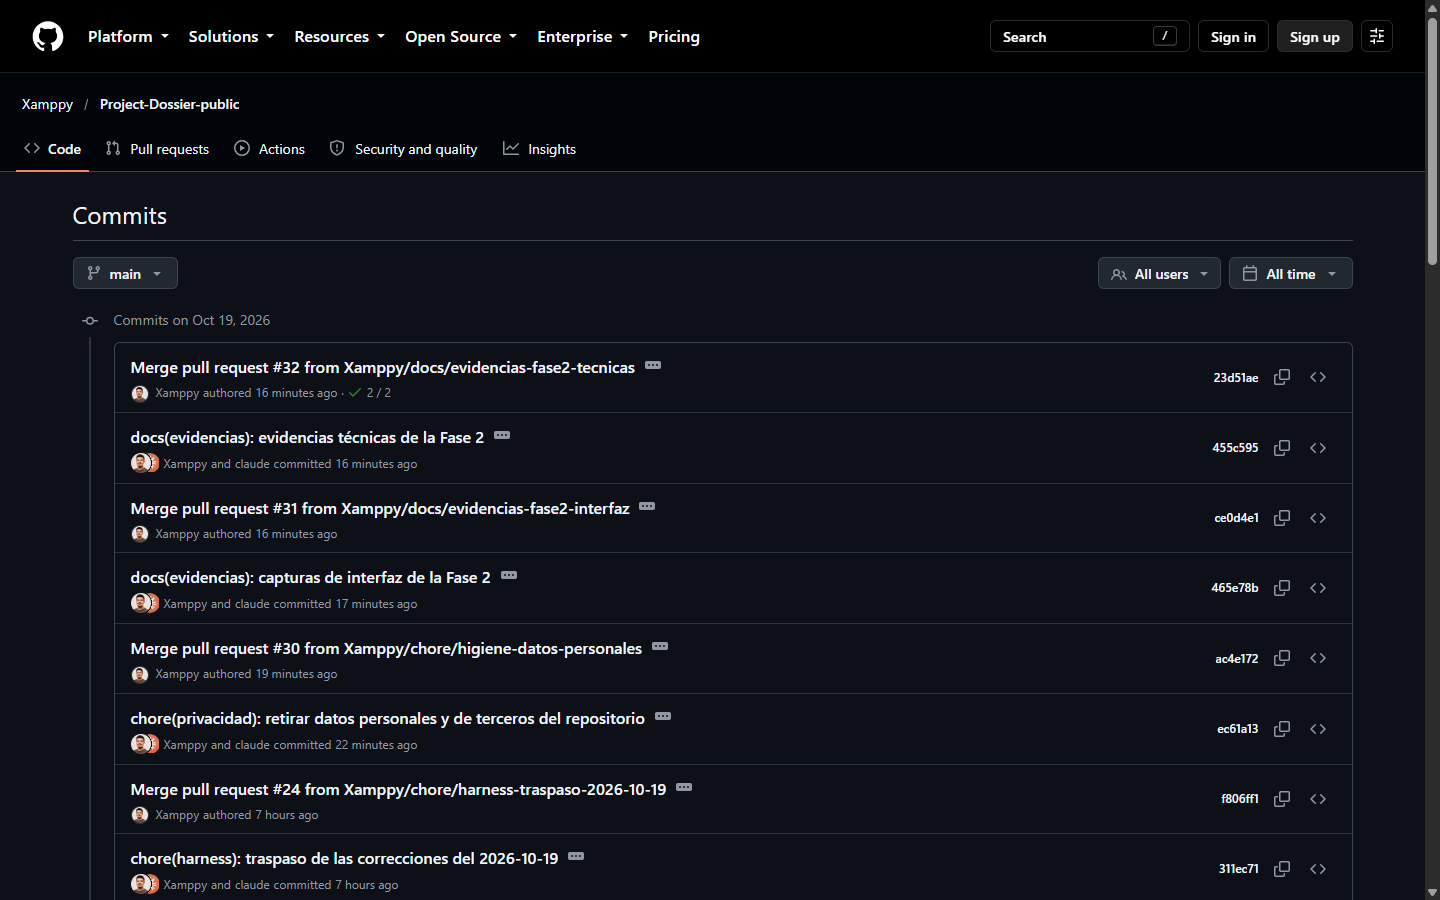
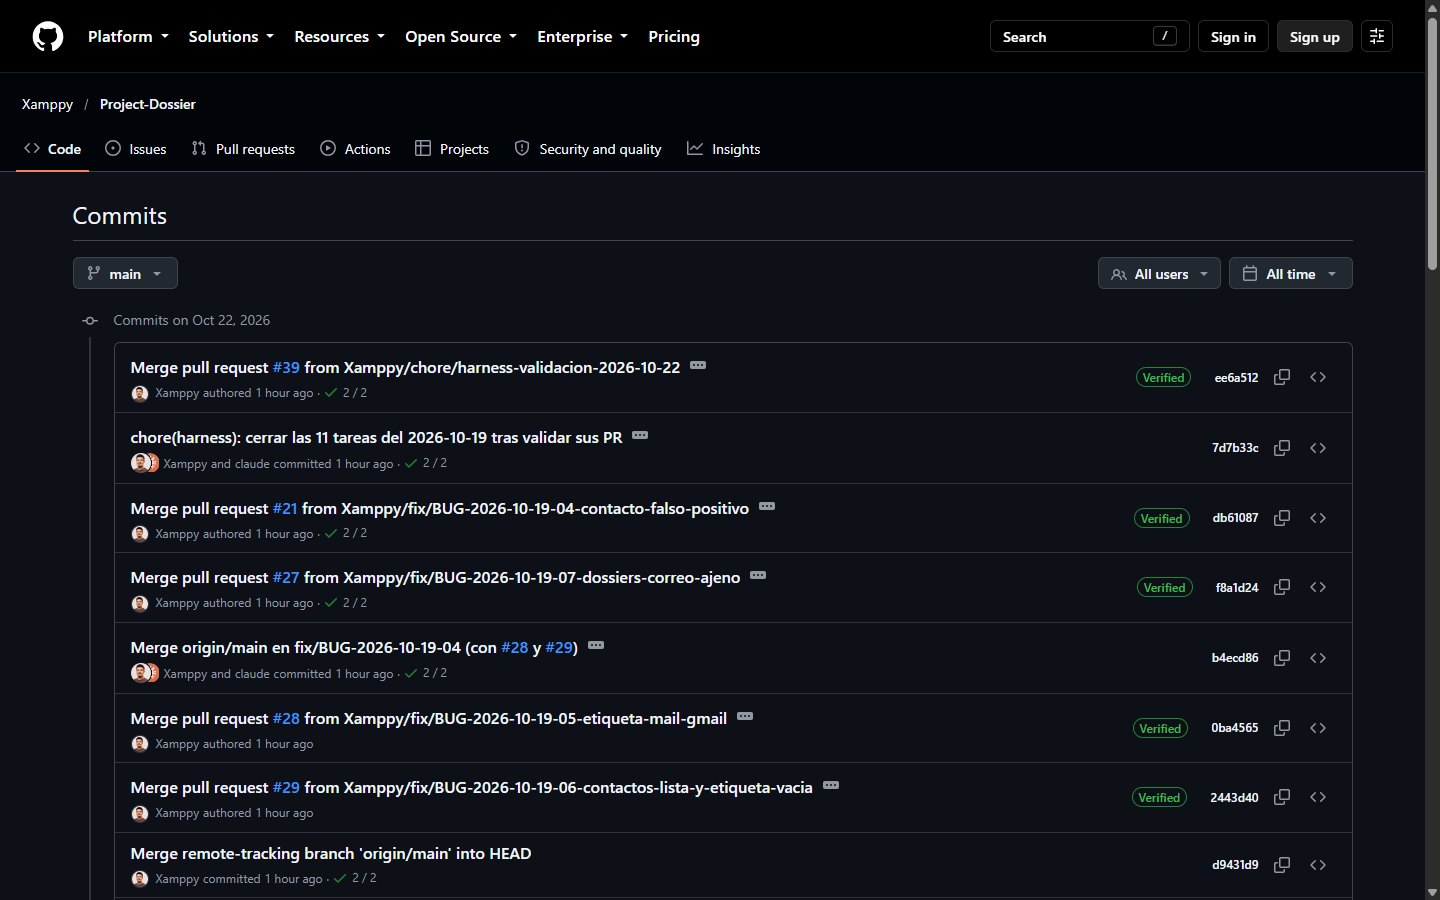
docs(evidencias): capturas de GitHub desde el repositorio original
El repositorio de trabajo es público desde el 22-10-2026. Se reemplazan las
diez capturas de docs/evidencias/fase2/github/, que eran de la copia
pública, por capturas del repositorio original tomadas sin sesión: portada,
Actions, CI #75 en main y su job Backend, migraciones, esta carpeta,
commits, contribuidores, ci.yml y ADR. Se actualizan los README de github/,
de fase2/ y de ci-cd/. Las capturas anteriores siguen en el historial
(c955d51).

Sin cambios de código.

diff --git a/docs/evidencias/fase2/github/README.md b/docs/evidencias/fase2/github/README.md
@@ -1,40 +1,41 @@
-# Evidencia: GitHub del repositorio público
+# Evidencia: GitHub del repositorio
 
-El repositorio de trabajo es privado, y sin sesión GitHub responde «Page not found». Estas capturas son de
-la copia pública [`Xamppy/Project-Dossier-public`](https://github.com/Xamppy/Project-Dossier-public), que
-se sincroniza desde `main` del privado con historial filtrado (el procedimiento se documenta en
-`docs/dev/repo-publico.md`, PR #33). Muestran lo que ve cualquier evaluador sin
+Capturas de la interfaz web de [`Xamppy/Project-Dossier`](https://github.com/Xamppy/Project-Dossier), el
+repositorio de trabajo, que es público desde el 22-10-2026. Muestran lo que ve cualquier evaluador sin
 cuenta.
 
-**Cómo se tomaron:** el **2026-10-19**, con Chrome DevTools (MCP) en un contexto aislado y **sin sesión
-iniciada**, ventana de 1440×900. No se hizo clic en nada que cambiara el repositorio. Las capturas 01, 07 y
-08 son de página completa; las demás, de la parte visible. La copia pública estaba en `23d51ae`, que
-corresponde al merge del PR #32 (`cbc99c5` en el privado). Los SHA difieren porque el filtro reescribe el
-historial.
+**Cómo se tomaron:** el **22-10-2026**, con Chrome DevTools (MCP) en un contexto aislado y **sin sesión
+iniciada** (la página muestra «Sign in» y «Sign up»), ventana de 1440×900. No se hizo clic en nada que
+cambiara el repositorio. Las capturas 01, 07 y 08 son de página completa; las demás, de la parte visible.
+`main` estaba en `ee6a512`, el merge del PR #39.
+
+Hasta el 19-10-2026 el repositorio era privado y las capturas de esta carpeta se tomaron en la copia
+pública `Xamppy/Project-Dossier-public` (ver `docs/dev/repo-publico.md`). Esas versiones siguen en el
+historial de git (commit `c955d51`).
 
 | Archivo | Qué muestra | URL | Fecha | Criterio que respalda |
 |---|---|---|---|---|
-| [01-repositorio-publico.png](01-repositorio-publico.png) | Portada del repositorio: árbol de carpetas, 165 commits, el último con check verde, y el README completo | https://github.com/Xamppy/Project-Dossier-public | 2026-10-19 | Documentación; uso de Git |
-| [02-actions.png](02-actions.png) | Lista de ejecuciones de Actions, todas en verde. El workflow «Imágenes Docker» figura como *Disabled* en la copia | https://github.com/Xamppy/Project-Dossier-public/actions | 2026-10-19 | CI |
-| [03-ci-ejecucion-exitosa.png](03-ci-ejecucion-exitosa.png) | Detalle de la CI #3 sobre `main` (push de `23d51ae`): estado *Success*, jobs Backend (pytest, ruff, mypy) y Frontend (eslint, vitest, build) en verde, 1m 15s | https://github.com/Xamppy/Project-Dossier-public/actions/runs/39343754874 | 2026-10-19 | CI |
-| [03b-ci-job-backend-pasos.png](03b-ci-job-backend-pasos.png) | Job Backend expandido con sus pasos en verde: instalar Python y dependencias, ruff, mypy, pytest con cobertura | https://github.com/Xamppy/Project-Dossier-public/actions/runs/39343754874/job/118371292764 | 2026-10-19 | CI |
-| [04-migraciones-alembic.png](04-migraciones-alembic.png) | Las 3 revisiones de Alembic en `backend/alembic/versions`, con el commit que agregó cada una | https://github.com/Xamppy/Project-Dossier-public/tree/main/backend/alembic/versions | 2026-10-19 | Migraciones |
-| [05-evidencias-fase2.png](05-evidencias-fase2.png) | La carpeta `docs/evidencias/fase2` publicada: CI/CD, migraciones, almacenamiento, pruebas, calidad, contribuciones e interfaz | https://github.com/Xamppy/Project-Dossier-public/tree/main/docs/evidencias/fase2 | 2026-10-19 | Documentación |
-| [06-commits.png](06-commits.png) | Historial de `main` con commits convencionales (`docs(evidencias)`, `chore(privacidad)`, `chore(harness)`) y merges de PR | https://github.com/Xamppy/Project-Dossier-public/commits/main | 2026-10-19 | Uso de Git |
-| [07-contribuidores.png](07-contribuidores.png) | Gráfico de contribuidores de los últimos 3 meses, sin merges: Xamppy 67 commits, darygod 55, fedocmac 12 (ver nota) | https://github.com/Xamppy/Project-Dossier-public/graphs/contributors | 2026-10-19 | Aporte por integrante |
-| [08-workflow-ci.png](08-workflow-ci.png) | El archivo `.github/workflows/ci.yml` completo: disparadores en push y PR a `main`, y los pasos de los dos jobs | https://github.com/Xamppy/Project-Dossier-public/blob/main/.github/workflows/ci.yml | 2026-10-19 | CI |
-| [09-adr.png](09-adr.png) | Los 9 registros de decisiones de arquitectura (ADR 0001 a 0009) en `docs/architecture/decisions` | https://github.com/Xamppy/Project-Dossier-public/tree/main/docs/architecture/decisions | 2026-10-19 | Documentación |
+| [01-repositorio-publico.png](01-repositorio-publico.png) | Portada del repositorio: etiqueta *Public*, 34 ramas, 209 commits, el último con check verde, árbol de carpetas y el README completo | https://github.com/Xamppy/Project-Dossier | 22-10-2026 | Documentación; uso de Git |
+| [02-actions.png](02-actions.png) | Lista de ejecuciones de Actions (111 en total). Las de «Imágenes Docker» con ícono de cancelada las detuvo `concurrency: cancel-in-progress` de `imagenes.yml` al llegar un push más reciente | https://github.com/Xamppy/Project-Dossier/actions | 22-10-2026 | CI |
+| [03-ci-ejecucion-exitosa.png](03-ci-ejecucion-exitosa.png) | Detalle de la CI #75 sobre `main` (push de `ee6a512`): estado *Success*, jobs Backend (pytest, ruff, mypy) y Frontend (eslint, vitest, build) en verde, 2m 41s | https://github.com/Xamppy/Project-Dossier/actions/runs/39872553288 | 22-10-2026 | CI |
+| [03b-ci-job-backend-pasos.png](03b-ci-job-backend-pasos.png) | Job Backend de la CI #75 con sus pasos en verde: checkout fijado por SHA, instalar Python y dependencias, ruff, mypy y pytest con cobertura | https://github.com/Xamppy/Project-Dossier/actions/runs/39872553288/job/120150230746 | 22-10-2026 | CI |
+| [04-migraciones-alembic.png](04-migraciones-alembic.png) | Las 3 revisiones de Alembic en `backend/alembic/versions`, con el commit que agregó cada una | https://github.com/Xamppy/Project-Dossier/tree/main/backend/alembic/versions | 22-10-2026 | Migraciones |
+| [05-evidencias-fase2.png](05-evidencias-fase2.png) | La carpeta `docs/evidencias/fase2` publicada: CI/CD, migraciones, almacenamiento, pruebas, calidad, contribuciones, GitHub e interfaz | https://github.com/Xamppy/Project-Dossier/tree/main/docs/evidencias/fase2 | 22-10-2026 | Documentación |
+| [06-commits.png](06-commits.png) | Historial de `main` con commits convencionales (`chore(harness)`, merges de los PR #21, #27, #28, #29 y #39) | https://github.com/Xamppy/Project-Dossier/commits/main | 22-10-2026 | Uso de Git |
+| [07-contribuidores.png](07-contribuidores.png) | Gráfico de contribuidores de los últimos 3 meses, sin merges: Xamppy 91 commits, darygod 55, fedocmac 12 (ver nota) | https://github.com/Xamppy/Project-Dossier/graphs/contributors | 22-10-2026 | Aporte por integrante |
+| [08-workflow-ci.png](08-workflow-ci.png) | El archivo `.github/workflows/ci.yml` completo: disparadores en push y PR a `main`, acciones fijadas por SHA y los pasos de los dos jobs | https://github.com/Xamppy/Project-Dossier/blob/main/.github/workflows/ci.yml | 22-10-2026 | CI |
+| [09-adr.png](09-adr.png) | Los 9 registros de decisiones de arquitectura (ADR 0001 a 0009) en `docs/architecture/decisions` | https://github.com/Xamppy/Project-Dossier/tree/main/docs/architecture/decisions | 22-10-2026 | Documentación |
 
 ## Notas
 
-- **Contribuidores.** GitHub muestra también a `claude` (123 commits) porque cuenta como contribuidor a
+- **Contribuidores.** GitHub muestra también a `claude` (147 commits) porque cuenta como contribuidor a
   cada coautor declarado con `Co-Authored-By`. Esos commits ya figuran a nombre de un integrante; no es una
-  quinta persona. La correspondencia es Xamppy = FO, darygod = DG y fedocmac = FD. Los 67 commits de FO
-  son los 64 de [contribuciones/](../contribuciones/README.md) más los 3 de los PR #30, #31 y #32, que
-  entraron después de ese cálculo.
+  quinta persona. La correspondencia es Xamppy = FO, darygod = DG y fedocmac = FD. Los 91 commits de FO
+  son los 72 de [contribuciones/](../contribuciones/README.md), medidos el 19-10-2026, más los 19 del
+  20-10-2026 al 22-10-2026 (correcciones de los PR #17–#29 y el cierre del harness).
 - **Registros de las ejecuciones.** Sin sesión, GitHub muestra los jobs y sus pasos, pero no el texto de
-  los registros («Sign in to view logs»). El texto completo de una ejecución equivalente del privado está
-  en [ci-cd/](../ci-cd/README.md).
-- **Anotaciones de la CI #3.** Una advertencia de eslint en `frontend/src/app/register/page.test.tsx`
-  (`'t' is assigned a value but never used`) y el aviso de GitHub sobre la migración de `ubuntu-latest`.
+  los registros («Sign in to view logs»). El texto completo de una ejecución equivalente está en
+  [ci-cd/](../ci-cd/README.md).
+- **Anotaciones de la CI #75.** Una advertencia de eslint en `frontend/src/app/register/page.test.tsx`
+  (`'t' is assigned a value but never used`) y avisos de GitHub sobre la migración de `ubuntu-latest`.
   Ninguna hace fallar la ejecución.

diff --git a/docs/evidencias/fase2/README.md b/docs/evidencias/fase2/README.md
@@ -28,7 +28,7 @@ limpias también se guardan, con su explicación.
 | **Pruebas** | [pruebas/](pruebas/README.md) | Backend: 768 passed, 12 skipped, cobertura 63 %. Frontend: 522 pruebas en verde, cobertura de sentencias 36,77 %. Conteo por categoría: 486 unitarias, 166 de integración, 67 de seguridad y 61 de estrés. | Avance técnico; política de pruebas | `pytest --cov=dossier`, `npm test`, `npm run test:cov`, `_herramientas/categorias_pruebas.py` |
 | **Calidad** | [calidad/](calidad/README.md) | ruff 0, mypy 0 (124 archivos), eslint 0 errores y 1 advertencia, `tsc` 0. Auditorías: `pip-audit` 2 avisos en `pyjwt`; `npm audit` 6 (5 altas), todas con corrección disponible. | Definición de Terminado (análisis estático); avance técnico | `ruff check`, `mypy`, `npm run lint`, `npx tsc --noEmit`, `pip-audit`, `npm audit --omit=dev` |
 | **Contribuciones** | [contribuciones/](contribuciones/README.md) | Commits, líneas, PR y tareas del harness por integrante, con los alias de git unificados, un gráfico de barras y los sesgos de cada cifra explicados (commit raíz heredado, merges, asistencia de agentes, rama `docmac`). | Rúbrica: **aporte de cada integrante** | `git shortlog -sne --all`, `_herramientas/contribuciones.py`, `gh pr list` |
-| **GitHub** | [github/](github/README.md) | Capturas de la interfaz web de GitHub en la copia pública, sin sesión: portada con README, lista de Actions, CI exitosa con los jobs Backend y Frontend en verde y sus pasos, `ci.yml`, las 3 migraciones de Alembic, esta carpeta publicada, commits convencionales, gráfico de contribuidores y los ADR. | Observaciones: **integración continua** y **migraciones**; rúbrica: **aporte de cada integrante**; uso de Git; documentación | ver `github/README.md` |
+| **GitHub** | [github/](github/README.md) | Capturas de la interfaz web de GitHub del repositorio, sin sesión (22-10-2026): portada con README, lista de Actions, CI exitosa con los jobs Backend y Frontend en verde y sus pasos, `ci.yml`, las 3 migraciones de Alembic, esta carpeta publicada, commits convencionales, gráfico de contribuidores y los ADR. | Observaciones: **integración continua** y **migraciones**; rúbrica: **aporte de cada integrante**; uso de Git; documentación | ver `github/README.md` |
 | **Interfaz** | [ui/](ui/README.md) | Capturas del calendario visual y de los indicadores conectados del dashboard (las prepara otra sesión de trabajo en `ui/`). | Observación: **calendario visual** e **indicadores conectados** | ver `ui/README.md` |
 
 ## Cifras clave
@@ -47,9 +47,9 @@ limpias también se guardan, con su explicación.
 
 ## Pendientes
 
-- ~~**Capturas de la interfaz web de GitHub Actions.**~~ Resuelto: el repositorio de trabajo sigue
-  privado, pero las capturas se tomaron sin sesión en la copia pública `Xamppy/Project-Dossier-public`.
-  Ver [github/README.md](github/README.md).
+- ~~**Capturas de la interfaz web de GitHub Actions.**~~ Resuelto: el repositorio de trabajo es
+  público desde el 22-10-2026 y las capturas se tomaron ahí, sin sesión. Ver
+  [github/README.md](github/README.md).
 - **Redespliegue automático en Dokploy.** El job existe y corre, pero faltan los secretos `DOKPLOY_*`
   en el repositorio: hoy publica las imágenes y avisa que no redespliega.
 - **Postgres en la CI.** Las 109 pruebas con base se omiten en Actions; aquí se corrieron localmente.

diff --git a/docs/evidencias/fase2/ci-cd/README.md b/docs/evidencias/fase2/ci-cd/README.md
@@ -78,8 +78,8 @@ aparecen con «-».
 
 ## Capturas de GitHub Actions pendientes de tomar cuando el repo sea público
 
-> **Actualización (2026-10-19):** las capturas de la interfaz web se tomaron en la copia pública
-> `Xamppy/Project-Dossier-public`, sin sesión. Están en [../github/](../github/README.md).
+> **Actualización (22-10-2026):** el repositorio es público y las capturas de la interfaz web se
+> tomaron ahí, sin sesión. Están en [../github/](../github/README.md).
 
 El repositorio es privado. Al abrir `https://github.com/Xamppy/Project-Dossier/actions` con Chrome DevTools
 (sin sesión iniciada) GitHub responde «Page not found». No se ingresaron credenciales. Cuando el repo sea
